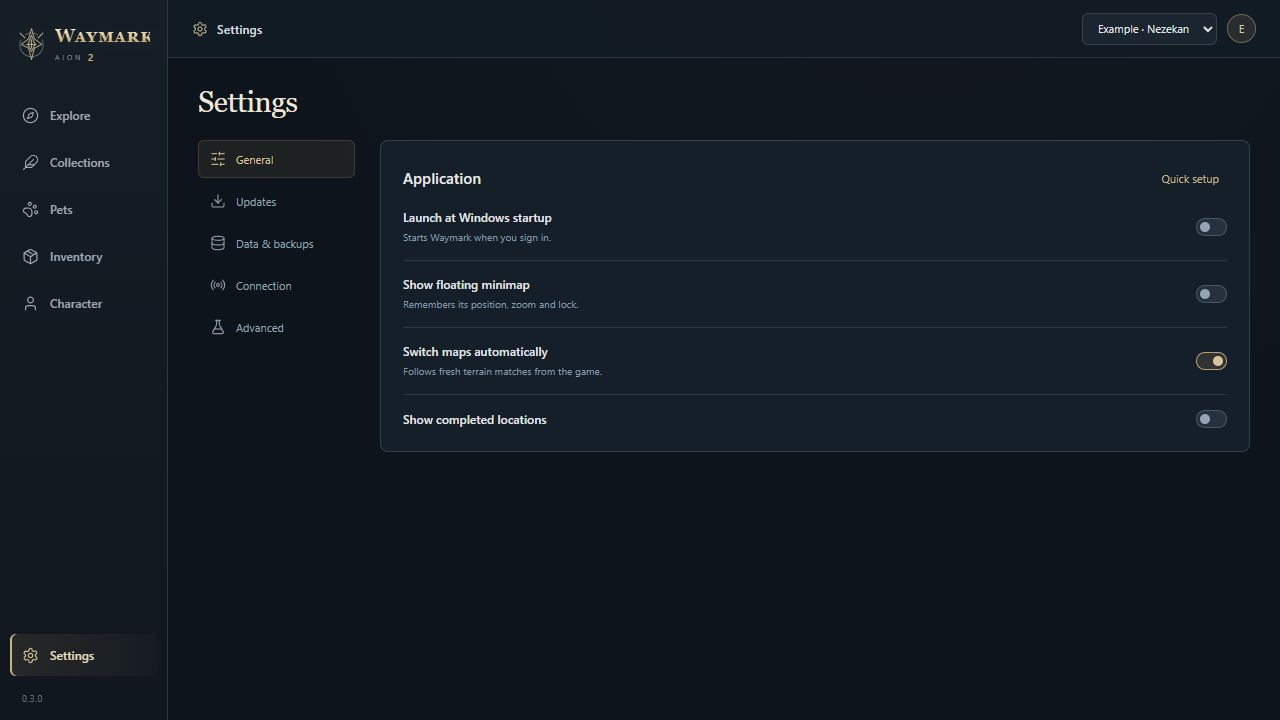
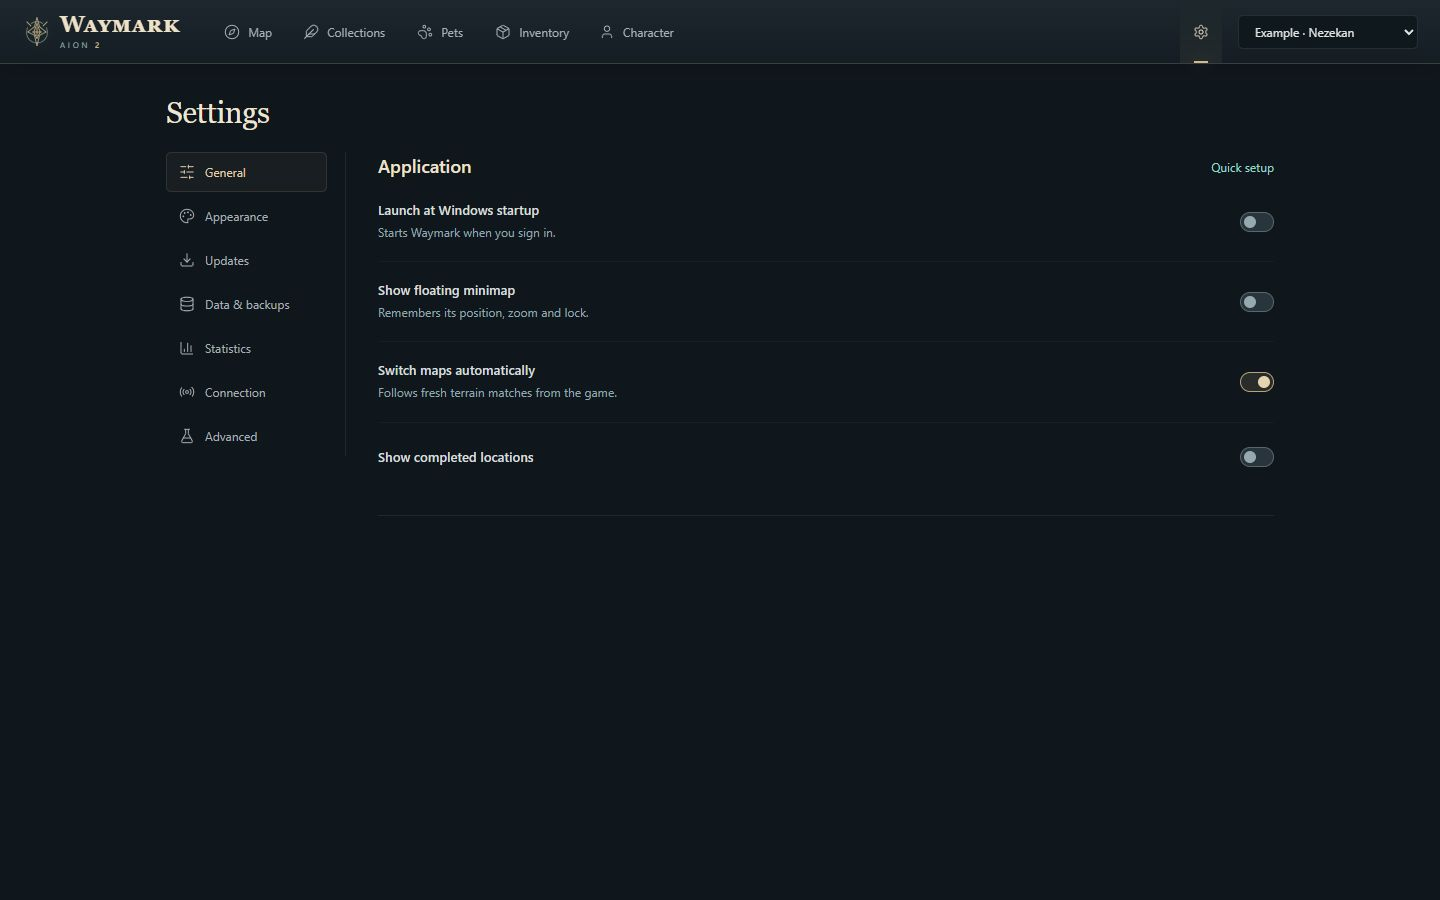
Document the 0.4.0 desktop remaster with current screenshots

diff --git a/docs/GETTING_STARTED.md b/docs/GETTING_STARTED.md
@@ -1,10 +1,10 @@
 # Getting started with Waymark
 
-[Download 0.3.8](https://github.com/ErebusAres/waymark-downloads/releases/download/v0.3.8/Waymark-0.3.8-Setup.exe) · [Back to Waymark](../README.md)
+[Download 0.4.0](https://github.com/ErebusAres/waymark-downloads/releases/download/v0.4.0/Waymark-0.4.0-Setup.exe) · [Back to Waymark](../README.md)
 
 ## Install
 
-Run **Waymark-0.3.8-Setup.exe** on 64-bit Windows 10 or 11. The installer includes a WebView2 bootstrapper for systems missing that runtime; it may need an internet connection. No Python, Node.js or development tools are required.
+Run **Waymark-0.4.0-Setup.exe** on 64-bit Windows 10 or 11. The installer includes a WebView2 bootstrapper for systems missing that runtime; it may need an internet connection. No Python, Node.js or development tools are required.
 
 On first launch, select Verteron, Altgard or Abyss and choose whether to show the floating minimap. **Start exploring** applies the map selection; **Keep current map** keeps the existing map. Both actions save the minimap checkbox.
 
@@ -36,8 +36,10 @@ Missing observations remain unknown. Selecting a planning profile manually does 
 | Shift-click | Add a custom pin and give it a name |
 | Ctrl-click | Set the route start |
 | Circuit | Build a circuit from the enabled, unfinished objectives |
-| Group | Combine nearby markers when zoomed out; off by default |
-| Map layers | Show or hide categories, custom pins and individual resource types |
+| Display → Group | Combine nearby markers when zoomed out; off by default |
+| Layers panel | Show or hide categories, custom pins and individual resource types |
+
+Use **Panel** to show or hide the floating map panel. **Layers** controls visibility; **Locations** shows search results. Searching switches to Locations automatically, and your panel choice is remembered. **Display** contains grouping and terrain controls.
 
 Open the in-game world map briefly to help the visual reader acquire your position. Verified terrain matching covers Verteron and Altgard; Abyss and cross-faction transitions need further live validation. A glowing teal dot indicates a live fix. The larger amber marker is the last-known location, not a current reading. Direction is not inferred from that dot.
 
@@ -45,7 +47,7 @@ Routes are map guidance between reference points, not terrain-aware navigation. 
 
 ## Floating minimap
 
-Use **Minimap** on Explore or **Settings → General → Show floating minimap**. Turning the setting off closes the minimap immediately and remembers the choice for the next launch.
+Use **Minimap** on the Map page or **Settings → General → Show floating minimap**. Turning the setting off closes the minimap immediately and remembers the choice for the next launch.
 
 The minimap starts near the player at the closest zoom tier. Drag its header to move it. Use the tier button to cycle three zoom levels, or the scroll wheel while unlocked. Lock enables click-through so clicks reach the game beneath it. **Ctrl+Shift+G** unlocks the overlay. If another app owns that shortcut, Waymark keeps click-through off.
 
@@ -57,7 +59,7 @@ The Pets page shows portraits, farming references and the latest observed level 
 
 Closest to complete puts the highest unfinished tier first, then the most points within that tier. Completed level 3 pets remain at the bottom. Use the sort icon to cycle through closest, least progress, alphabetical and recent pickups. Search and filters are saved.
 
-The farming summary shows souls observed in the current reader session, the number of affected pets and the latest pickup. Expanded cards keep previous-session gains labeled separately. These totals cover observed pickups, not a full play-session history or souls earned while the reader was disconnected.
+The farming summary shows souls observed in the current reader session, the number of affected pets and the latest pickup. Select a pet card to open its farming details, including previous-session gains. The card grid stays the same size. These totals cover observed pickups, not a full play-session history or souls earned while the reader was disconnected.
 
 A soul gain without a known baseline cannot establish a reliable total. Check the reader status if cards show unknown progress or wait for a fresh character login. Pet progress is shared between characters on the same server, not across different servers. Spawn dots are farming references; regional fallbacks are less precise and labeled as such.
 
@@ -93,8 +95,8 @@ Data is stored in **%LOCALAPPDATA%\AionCompanion** unless a custom data director
 | --- | --- |
 | No character or pet updates | Npcap compatibility option, one supported game client, other readers closed, then enter a character after starting Waymark |
 | Position unavailable | Correct map, visible in-game map/minimap terrain, reader diagnostics; last-known is not a fresh fix |
-| Minimap appears unexpectedly | Update to 0.3.8, turn off **Show floating minimap**, then relaunch to confirm the saved preference |
-| Teleport names are not English | Update to 0.3.8; all Verteron and Altgard kibelisk labels were replaced |
+| Minimap appears unexpectedly | Update to 0.4.0, turn off **Show floating minimap**, then relaunch to confirm the saved preference |
+| Teleport names are not English | Update to 0.4.0; all Verteron and Altgard kibelisk labels were replaced |
 | App cannot check online updates | Check the selected update source and connection; the current installer is always on the Releases page |
 
 For a report, include the app version, map, steps and relevant status text. Crop private information from screenshots. Do not attach game login details, databases or packet captures to a public issue.
@@ -113,7 +115,7 @@ Pets with missing starting levels show an estimated count from zero. Observed pi
 
 ## If the automatic reader stops updating
 
-Update to 0.3.8 for bounded packet reassembly, automatic stalled-worker replacement and canonical access to moved data folders. A restarted reader needs a fresh character entry to identify the session; when safe, return to character selection and enter once. Saved progress remains available while waiting. Pickups missed during a capture gap are not invented; supported login readings resync the available counts.
+Update to 0.4.0 for bounded packet reassembly, automatic stalled-worker replacement and canonical access to moved data folders. A restarted reader needs a fresh character entry to identify the session; when safe, return to character selection and enter once. Saved progress remains available while waiting. Pickups missed during a capture gap are not invented; supported login readings resync the available counts.
 
 ## Usage statistics
 

diff --git a/README.md b/README.md
@@ -4,7 +4,7 @@
 
 Waymark is a Windows app for AION 2 Global Steam. Explore the world map, build farming routes, and follow your pet collection in one place. A floating minimap keeps nearby objectives visible while you play.
 
-[**Download Waymark 0.3.8 for Windows**](https://github.com/ErebusAres/waymark-downloads/releases/download/v0.3.8/Waymark-0.3.8-Setup.exe) · [Getting started](docs/GETTING_STARTED.md) · [Release notes](https://github.com/ErebusAres/waymark-downloads/releases/tag/v0.3.8) · [All downloads](https://github.com/ErebusAres/waymark-downloads/releases)
+[**Download Waymark 0.4.0 for Windows**](https://github.com/ErebusAres/waymark-downloads/releases/download/v0.4.0/Waymark-0.4.0-Setup.exe) · [Getting started](docs/GETTING_STARTED.md) · [Release notes](https://github.com/ErebusAres/waymark-downloads/releases/tag/v0.4.0) · [All downloads](https://github.com/ErebusAres/waymark-downloads/releases)
 
 Windows 10/11, 64-bit. Public preview. No GitHub account needed to download.
 
@@ -31,13 +31,15 @@ Missing starting levels use clearly labeled estimates from zero. Pickups advance
 
 ## A cleaner desktop workspace
 
-The 0.3.0 refresh gives maps and pet cards more room, keeps controls consistent, and separates everyday settings from capture and calibration tools. Settings now has General, Appearance, Updates, Data & backups, Connection and Advanced sections.
+The 0.4.0 remaster puts navigation in one compact header and gives terrain the full map workspace. Floating Layers and Locations panels keep filters and search within reach. Pet cards stay the same size; farming details open separately. Settings groups everyday preferences, appearance, updates, backups, statistics and connection tools into clear sections. Hover or focus a control for an explanation when you need one.
 
 ![Waymark settings with a dedicated navigation list](docs/images/settings.jpg)
 
+![Waymark floating minimap at its closest zoom](docs/images/minimap.jpg)
+
 ## Start playing
 
-1. Download and run **Waymark-0.3.8-Setup.exe**. Setup includes the WebView2 bootstrapper if the Windows web runtime is missing.
+1. Download and run **Waymark-0.4.0-Setup.exe**. Setup includes the WebView2 bootstrapper if the Windows web runtime is missing.
 2. Choose a starting map and whether to open the floating minimap. You can change both later.
 3. For automatic character and pet reads, install [Npcap from its official site](https://npcap.com/#download) with **WinPcap API-compatible Mode** enabled. Map planning works without it.
 4. Start Waymark before entering your character. If you opened Waymark while already in game, return to character selection and enter once so it can identify the session.
